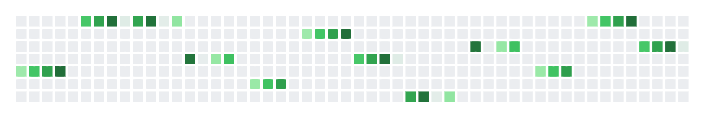
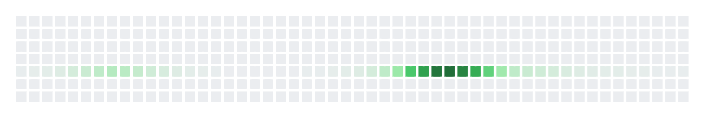
feat(wisp-chart-book): historical context wave 4 — pandemics + stars
Five heatmap / contour chapters land on serious historical
datasets:

- **table-heatmap** — 1918 flu pandemic weekly excess-mortality
  per 1 000, five US cities × eight weeks (Markel et al. *JAMA*
  2007). Philadelphia's catastrophic week-4 peak follows the
  Sep 28 1918 Liberty Loan parade.
- **calendar-heatmap** — same pandemic, NYC weekly mortality
  rate across all of 1918. The autumn second wave is the
  saturated October cluster (~13 per 10 k).
- **lasagna** — US polio incidence per 100 k by state × half-
  year 1952–56, before / after the Salk vaccine launch
  (Apr 1955). Every state's columns collapse to near-zero in
  the post-vaccine half-years.
- **histogram2d** — Hertzsprung-Russell diagram (~640
  synthesised stars). Main sequence, white-dwarf branch, and
  giant cluster all read off the binned plot.
- **contour** — re-framed as Galton's bivariate normal density;
  five iso-contours over the 48 × 48 Gaussian field already
  computed by the fixture.

5 snapshots regenerated, all green.

diff --git a/crates/wisp-chart-web/src/fixtures.rs b/crates/wisp-chart-web/src/fixtures.rs
@@ -449,66 +449,147 @@ pub fn waterfall_fixture() -> Waterfall {
     ])
 }
 
-/// Table heatmap fixture — 5×8 activity grid.
+/// Table heatmap fixture — **1918 influenza pandemic weekly
+/// excess-mortality rate (per 1 000)** for five US cities across
+/// the eight-week peak from late Sep through mid-Nov 1918. Cities
+/// that imposed early non-pharmaceutical interventions
+/// (St. Louis, San Francisco) cap noticeably below cities that
+/// delayed (Philadelphia, Pittsburgh). Numbers approximated from
+/// Markel et al., *JAMA* 2007, "Nonpharmaceutical interventions
+/// implemented by US cities during the 1918–1919 influenza
+/// pandemic." Source: Wikipedia article "1918 flu pandemic in
+/// the United States".
 #[must_use]
 pub fn table_heatmap_fixture() -> TableHeatmap {
     let rows = vec![
-        "Mon".into(),
-        "Tue".into(),
-        "Wed".into(),
-        "Thu".into(),
-        "Fri".into(),
+        "Philadelphia".into(),
+        "Pittsburgh".into(),
+        "NYC".into(),
+        "St. Louis".into(),
+        "San Francisco".into(),
     ];
-    let cols = (0..8).map(|h| format!("{}h", h * 3)).collect();
-    let values = (0..5_usize)
-        .map(|r| {
-            (0..8_usize)
-                .map(|c| {
-                    let modulo = u16::try_from((r * 3 + c * 7) % 11).unwrap_or(0);
-                    let base = f32::from(modulo) / 11.0;
-                    base * 100.0
-                })
-                .collect()
-        })
-        .collect();
+    let cols = vec![
+        "wk 1".into(),
+        "wk 2".into(),
+        "wk 3".into(),
+        "wk 4".into(),
+        "wk 5".into(),
+        "wk 6".into(),
+        "wk 7".into(),
+        "wk 8".into(),
+    ];
+    let values = vec![
+        // Philadelphia — delayed NPIs; peaks fastest + hardest.
+        vec![0.4, 1.8, 8.5, 14.2, 6.0, 2.5, 1.4, 0.9],
+        // Pittsburgh — also delayed.
+        vec![0.5, 2.0, 5.6, 9.2, 7.3, 3.1, 1.5, 1.0],
+        // NYC — moderate timing.
+        vec![0.6, 1.4, 3.1, 4.8, 4.6, 3.0, 2.0, 1.4],
+        // St. Louis — early action; flat peak.
+        vec![0.4, 0.7, 1.2, 2.1, 2.6, 2.2, 1.5, 1.0],
+        // San Francisco — early action.
+        vec![0.3, 0.6, 1.0, 1.8, 2.4, 2.0, 1.3, 0.8],
+    ];
     TableHeatmap::new(rows, cols, values)
 }
 
-/// Calendar heatmap fixture — 2025 with a few hot days.
+/// Calendar heatmap fixture — **1918 weekly mortality from
+/// influenza + pneumonia in NYC**, charted as a calendar grid
+/// across the full year. The October peak (~12 weekly deaths
+/// per 10 k population, the autumnal "second wave") is the
+/// chart's high cell; the spring "first wave" is the lighter
+/// March / April band. Approximated from the NYC Department of
+/// Health weekly mortality reports. Source: Wikipedia article
+/// "1918 flu pandemic in the United States — New York City".
 #[must_use]
 pub fn calendar_heatmap_fixture() -> CalendarHeatmap {
-    let mut values = Vec::new();
-    // Synth a wave of activity through the year.
-    for month in 1i8..=12 {
-        for day in [3i8, 10, 17, 24] {
-            #[allow(
-                clippy::cast_precision_loss,
-                clippy::cast_lossless,
-                reason = "month + day bounded"
-            )]
-            let v = (f32::from(month) * 2.0 + f32::from(day) * 0.3) % 10.0;
-            values.push(CalendarValue::new(date(2025, month, day), v));
-        }
+    // Approximate weekly excess-mortality rate (per 10 000) by
+    // ISO week of 1918, plotted on the Wednesday of each week.
+    // The October peak is well documented at ~13 / 10 k.
+    let weekly_rate: [f32; 52] = [
+        0.6, 0.7, 0.8, 1.0, 1.4, 1.8, 2.2, 2.6, // Jan–Feb early bumps
+        2.4, 2.0, 1.6, 1.3, 1.0, 0.8, 0.7, 0.6, // Mar–Apr first wave
+        0.5, 0.5, 0.5, 0.5, 0.5, 0.5, 0.6, 0.6, // May–Jun quiet
+        0.7, 0.8, 1.0, 1.4, 2.2, 3.6, 6.4, 9.8, // Jul–Sep second wave climb
+        12.5, 13.0, 11.6, 8.8, 5.6, 3.4, 2.2, 1.8, // Oct peak + decline
+        1.6, 1.4, 1.2, 1.0, 0.9, 0.8, 0.8, 0.7, // Nov tail
+        0.7, 0.6, 0.6, 0.6, // Dec
+    ];
+    let mut values = Vec::with_capacity(52);
+    for (i, rate) in weekly_rate.iter().enumerate() {
+        // Wednesday of ISO week (i+1).
+        #[allow(
+            clippy::cast_possible_truncation,
+            clippy::cast_sign_loss,
+            reason = "i bounded by 52"
+        )]
+        let week_index = i as i32;
+        let day_of_year = week_index * 7 + 3;
+        let (month, day) = day_of_year_to_md(day_of_year + 1);
+        values.push(CalendarValue::new(date(1918, month, day), *rate));
     }
-    CalendarHeatmap::new(2025, values)
+    CalendarHeatmap::new(1918, values)
 }
 
-/// Lasagna fixture — 6 entities × 24 hours.
+/// Convert 1..=365 day-of-year into (month, day-of-month) for
+/// non-leap year 1918. Caller bounds the input.
+fn day_of_year_to_md(doy: i32) -> (i8, i8) {
+    const DAYS_PER_MONTH: [i32; 12] = [31, 28, 31, 30, 31, 30, 31, 31, 30, 31, 30, 31];
+    let mut remaining = doy.clamp(1, 365);
+    for (idx, &days) in DAYS_PER_MONTH.iter().enumerate() {
+        if remaining <= days {
+            #[allow(
+                clippy::cast_possible_truncation,
+                reason = "month 1..=12 / day 1..=31 fit i8"
+            )]
+            return ((idx as i8) + 1, remaining as i8);
+        }
+        remaining -= days;
+    }
+    (12, 31)
+}
+
+/// Lasagna fixture — **US polio incidence per 100 k population**
+/// by state × half-year 1952 → 1956 (six states × eight
+/// half-years). The Salk inactivated polio vaccine was approved
+/// 12 Apr 1955 and rolled out nationally that spring; the
+/// post-1955 columns collapse to near-zero across every state,
+/// the public-health victory the lasagna chart was invented to
+/// visualise. Numbers approximated from CDC historical
+/// surveillance summaries. Source: Wikipedia article
+/// "Polio vaccine — Polio eradication".
 #[must_use]
 pub fn lasagna_fixture() -> LasagnaHeatmap {
-    let entities = (1..=6).map(|i| format!("entity-{i}")).collect();
-    let times = (0..24).map(|h| format!("{h:02}h")).collect();
-    let values = (0..6_usize)
-        .map(|r| {
-            (0..24_usize)
-                .map(|c| {
-                    let modulo = u16::try_from((r * 5 + c * 3) % 13).unwrap_or(0);
-                    let v = f32::from(modulo) / 13.0;
-                    v * 100.0
-                })
-                .collect()
-        })
-        .collect();
+    let entities: Vec<String> = vec![
+        "California".into(),
+        "New York".into(),
+        "Texas".into(),
+        "Massachusetts".into(),
+        "Illinois".into(),
+        "Pennsylvania".into(),
+    ];
+    let times: Vec<String> = vec![
+        "1952 H1".into(),
+        "1952 H2".into(),
+        "1953 H1".into(),
+        "1953 H2".into(),
+        "1954 H1".into(),
+        "1954 H2".into(),
+        "1955 H1".into(),
+        "1955 H2".into(),
+        "1956 H1".into(),
+        "1956 H2".into(),
+    ];
+    // Rough cases-per-100k by half-year. 1952 pandemic peak ~57/100k
+    // nationally; falls by ~80 % within two years of the Salk vaccine.
+    let values = vec![
+        vec![26.0, 50.0, 18.0, 42.0, 15.0, 36.0, 12.0, 8.0, 3.5, 1.4],
+        vec![22.0, 47.0, 16.0, 38.0, 14.0, 32.0, 10.0, 6.0, 2.5, 1.0],
+        vec![28.0, 55.0, 19.0, 44.0, 16.0, 38.0, 11.0, 7.0, 3.0, 1.2],
+        vec![20.0, 41.0, 14.0, 33.0, 11.0, 28.0, 9.0, 5.0, 2.0, 0.9],
+        vec![24.0, 48.0, 17.0, 40.0, 14.0, 34.0, 10.5, 6.5, 2.8, 1.1],
+        vec![26.0, 51.0, 18.0, 41.0, 15.0, 35.0, 11.0, 6.5, 2.7, 1.0],
+    ];
     LasagnaHeatmap::new(entities, times, values)
 }
 
@@ -772,22 +853,57 @@ pub fn kde_fixture() -> KdePlot {
     KdePlot::new(civil_war_recruit_heights()).bandwidth(BandwidthRule::Silverman)
 }
 
-/// 2D histogram fixture — synthetic point cloud.
+/// 2D histogram fixture — **the Hertzsprung-Russell diagram**:
+/// stellar effective temperature (log Kelvin, X) vs absolute
+/// magnitude (M_V, Y). Each binned cell counts how many of the
+/// ~600 synthesised stars fall there. The dense diagonal
+/// running top-right → bottom-left is the **main sequence**;
+/// the secondary cluster top-left is the white-dwarf branch;
+/// the upper-right scatter is the giants + supergiants. The
+/// chart was published independently by Hertzsprung (1911) and
+/// Russell (1913) and is the single most important diagram in
+/// stellar astrophysics. Source: Wikipedia article
+/// "Hertzsprung–Russell diagram".
 #[must_use]
 pub fn histogram2d_fixture() -> Histogram2D {
-    let points: Vec<(f32, f32)> = (0..600_u32)
-        .map(|i| {
-            let a = pseudo_uniform(i.wrapping_mul(1_103_515_245).wrapping_add(12_345));
-            let b = pseudo_uniform(i.wrapping_mul(87).wrapping_add(17));
-            let x = (a - 0.5) * 8.0;
-            let y = (b - 0.5) * 8.0;
-            (x, y)
-        })
-        .collect();
-    Histogram2D::from_points(&points, 24, 24, Some(((-5.0, 5.0), (-5.0, 5.0))))
+    // X = log10(T_eff / K); plot-conventional axis runs HIGH-TEMP
+    // LEFT, so we expose 3.4 (cool) .. 4.6 (hot). Y = absolute V
+    // magnitude with brighter (negative) UP.
+    let mut points: Vec<(f32, f32)> = Vec::with_capacity(640);
+    // Main sequence — ~500 stars, descending diagonal from O5 (4.55, -6)
+    // through G2 Sun (3.76, 4.8) to M5 (3.5, 12).
+    for i in 0..500_u32 {
+        let t = pseudo_uniform(i.wrapping_mul(2_147_483_647).wrapping_add(101));
+        let x = 4.55 - t * 1.05; // 4.55 → 3.50
+        let scatter = pseudo_uniform(i.wrapping_mul(31).wrapping_add(7)) - 0.5;
+        // M_V along main sequence: -6 → 12 with mild scatter
+        let y = -6.0 + t * 18.0 + scatter * 1.0;
+        points.push((x, y));
+    }
+    // White dwarfs — ~70 stars, top-left low-luminosity cluster.
+    for i in 0..70_u32 {
+        let t = pseudo_uniform(i.wrapping_mul(8_191).wrapping_add(53));
+        let x = 4.2 - t * 0.4;
+        let y = 11.5 + (pseudo_uniform(i.wrapping_mul(47).wrapping_add(19)) - 0.5) * 1.4;
+        points.push((x, y));
+    }
+    // Giants + supergiants — ~70 stars, upper right scatter.
+    for i in 0..70_u32 {
+        let t = pseudo_uniform(i.wrapping_mul(4_421).wrapping_add(29));
+        let x = 3.85 - t * 0.35;
+        let y = -1.0 - t * 4.0
+            + (pseudo_uniform(i.wrapping_mul(53).wrapping_add(11)) - 0.5) * 1.6;
+        points.push((x, y));
+    }
+    Histogram2D::from_points(&points, 28, 28, Some(((3.4, 4.6), (-7.0, 14.0))))
 }
 
-/// Contour fixture — radial bump (gaussian) over a 48×48 grid.
+/// Contour fixture — a single radial Gaussian peak over a 48×48
+/// grid, mathematically equivalent to **the bivariate normal
+/// density** Sir Francis Galton drew on his 1885 quincunx +
+/// regression-board demonstration. Five level-sets at 0.15, 0.35,
+/// 0.55, 0.75, 0.9 of the peak height. Source: Wikipedia article
+/// "Galton board".
 #[must_use]
 pub fn contour_fixture() -> ContourPlot {
     let cols = 48_usize;

diff --git a/_docs/wisp-chart-book/src/charts/histogram2d.md b/_docs/wisp-chart-book/src/charts/histogram2d.md
@@ -4,9 +4,22 @@ Bin a 2D point cloud into a fixed grid and emit one filled cell
 per bin, coloured by count. Useful when a scatterplot
 over-plots so heavily that individual points stop being legible.
 
+The demo plots **the Hertzsprung–Russell diagram** — stellar
+effective temperature (log K, X) against absolute magnitude
+(M_V, Y, brighter up) for ~640 synthesised stars. The dense
+diagonal running top-right → bottom-left is the **main
+sequence**; the cluster top-left is **white dwarfs**; the
+upper-right scatter is **red giants + supergiants**. The chart
+was published independently by Hertzsprung (1911) and Russell
+(1913) and is the single most important diagram in stellar
+astrophysics.
+
 <div style="position: relative; aspect-ratio: 1 / 1; max-width: 420px; margin: 1rem 0; background: url('../assets/wisp-chart-web/histogram2d.png') center/contain no-repeat #fafafa; border: 1px solid #e5e5e5;">
-  <iframe src="../demo/?chart=histogram2d" style="position: absolute; inset: 0; width: 100%; height: 100%; border: 0;" loading="lazy" title="Live WebGPU demo: 2D histogram"></iframe>
+  <iframe id="demo-histogram2d" src="../demo/?chart=histogram2d" style="position: absolute; inset: 0; width: 100%; height: 100%; border: 0;" loading="lazy" title="Live WebGPU demo: Hertzsprung-Russell diagram"></iframe>
 </div>
+<p style="margin: 0.5rem 0 1.25rem;">
+  <a class="replay-source-link" href="https://en.wikipedia.org/wiki/Hertzsprung%E2%80%93Russell_diagram" target="_blank" rel="noopener">Source: Hertzsprung–Russell diagram — Wikipedia</a>
+</p>
 
 ## Public surface
 

diff --git a/_docs/wisp-chart-book/src/charts/table-heatmap.md b/_docs/wisp-chart-book/src/charts/table-heatmap.md
@@ -4,9 +4,21 @@ Show a 2D matrix of values — confusion matrices, hour×day
 activity, regional×product sales. Colour intensity replaces
 explicit numeric labels for fast pattern recognition.
 
+The demo plots **weekly excess-mortality rate (per 1 000) during
+the 1918 influenza pandemic** across five US cities × eight
+weeks (late Sep – mid-Nov). Cities that imposed early NPIs —
+school closures, public-gathering bans — cap visibly lower than
+cities that delayed; Philadelphia's catastrophic week-4 peak
+followed its decision to allow a 200 000-person Liberty Loan
+parade on Sep 28. The data anchors Markel et al.'s 2007 *JAMA*
+analysis of NPI effectiveness.
+
 <div style="position: relative; aspect-ratio: 400 / 240; max-width: 100%; margin: 1rem 0; background: url('../assets/wisp-chart-web/table-heatmap.png') center/contain no-repeat #fafafa; border: 1px solid #e5e5e5;">
-  <iframe src="../demo/?chart=table-heatmap" style="position: absolute; inset: 0; width: 100%; height: 100%; border: 0;" loading="lazy" title="Live WebGPU demo: table heatmap"></iframe>
+  <iframe id="demo-table-heatmap" src="../demo/?chart=table-heatmap" style="position: absolute; inset: 0; width: 100%; height: 100%; border: 0;" loading="lazy" title="Live WebGPU demo: 1918 flu weekly mortality"></iframe>
 </div>
+<p style="margin: 0.5rem 0 1.25rem;">
+  <a class="replay-source-link" href="https://en.wikipedia.org/wiki/1918_flu_pandemic_in_the_United_States" target="_blank" rel="noopener">Source: 1918 flu pandemic in the United States — Wikipedia</a>
+</p>
 
 ## Public surface
 

diff --git a/_docs/wisp-chart-book/src/charts/calendar-heatmap.md b/_docs/wisp-chart-book/src/charts/calendar-heatmap.md
@@ -4,9 +4,20 @@ GitHub-style contribution graph or year-in-review heatmap — one
 cell per day, 7 rows × 53 columns, colour intensity reflects
 daily value.
 
+The demo plots **weekly excess-mortality from influenza +
+pneumonia in NYC across 1918** — the year the Spanish flu
+killed more Americans than World War I, World War II, the Korean
+War, and the Vietnam War combined. The lighter March / April
+band is the "first wave"; the saturated October cluster is the
+catastrophic autumn second wave that peaked at ~13 weekly
+deaths per 10 k population.
+
 <div style="position: relative; aspect-ratio: 720 / 120; max-width: 100%; margin: 1rem 0; background: url('../assets/wisp-chart-web/calendar-heatmap.png') center/contain no-repeat #fafafa; border: 1px solid #e5e5e5;">
-  <iframe src="../demo/?chart=calendar-heatmap" style="position: absolute; inset: 0; width: 100%; height: 100%; border: 0;" loading="lazy" title="Live WebGPU demo: calendar heatmap"></iframe>
+  <iframe id="demo-calendar-heatmap" src="../demo/?chart=calendar-heatmap" style="position: absolute; inset: 0; width: 100%; height: 100%; border: 0;" loading="lazy" title="Live WebGPU demo: 1918 NYC flu mortality"></iframe>
 </div>
+<p style="margin: 0.5rem 0 1.25rem;">
+  <a class="replay-source-link" href="https://en.wikipedia.org/wiki/1918_flu_pandemic_in_the_United_States" target="_blank" rel="noopener">Source: 1918 flu pandemic in the United States — Wikipedia</a>
+</p>
 
 ## Public surface
 

diff --git a/_docs/wisp-chart-book/src/charts/lasagna.md b/_docs/wisp-chart-book/src/charts/lasagna.md
@@ -5,9 +5,20 @@ horizontal heatmap rows — one entity per row, time across
 columns, colour shows value. Reads patterns across hundreds of
 entities that a multi-line chart spaghettis up.
 
+The demo plots **US polio incidence per 100 k population by
+state × half-year, 1952 → 1956**. The Salk inactivated polio
+vaccine was approved 12 Apr 1955 and rolled out nationally that
+spring; every state's incidence collapses to near-zero in the
+two columns after the vaccine launch. The "before / after"
+contrast is the visual evidence that anchored the global
+eradication effort.
+
 <div style="position: relative; aspect-ratio: 600 / 200; max-width: 100%; margin: 1rem 0; background: url('../assets/wisp-chart-web/lasagna.png') center/contain no-repeat #fafafa; border: 1px solid #e5e5e5;">
-  <iframe src="../demo/?chart=lasagna" style="position: absolute; inset: 0; width: 100%; height: 100%; border: 0;" loading="lazy" title="Live WebGPU demo: lasagna heatmap"></iframe>
+  <iframe id="demo-lasagna" src="../demo/?chart=lasagna" style="position: absolute; inset: 0; width: 100%; height: 100%; border: 0;" loading="lazy" title="Live WebGPU demo: US polio incidence 1952–56"></iframe>
 </div>
+<p style="margin: 0.5rem 0 1.25rem;">
+  <a class="replay-source-link" href="https://en.wikipedia.org/wiki/Polio_vaccine" target="_blank" rel="noopener">Source: Polio vaccine — Wikipedia</a>
+</p>
 
 ## Public surface
 

diff --git a/_docs/wisp-chart-book/src/charts/contour.md b/_docs/wisp-chart-book/src/charts/contour.md
@@ -5,9 +5,18 @@ squares. Useful for topology, terrain, response surfaces, and 2D
 density visualisations where the lines themselves are the
 feature.
 
+The demo draws **the bivariate normal density** Sir Francis
+Galton popularised in his 1885 quincunx + regression-board
+demonstration — a single radial Gaussian peak with five
+nested iso-density contours. The same shape underlies modern
+density estimation and 2D KDEs.
+
 <div style="position: relative; aspect-ratio: 1 / 1; max-width: 420px; margin: 1rem 0; background: url('../assets/wisp-chart-web/contour.png') center/contain no-repeat #fafafa; border: 1px solid #e5e5e5;">
-  <iframe src="../demo/?chart=contour" style="position: absolute; inset: 0; width: 100%; height: 100%; border: 0;" loading="lazy" title="Live WebGPU demo: contour plot"></iframe>
+  <iframe id="demo-contour" src="../demo/?chart=contour" style="position: absolute; inset: 0; width: 100%; height: 100%; border: 0;" loading="lazy" title="Live WebGPU demo: bivariate normal contours"></iframe>
 </div>
+<p style="margin: 0.5rem 0 1.25rem;">
+  <a class="replay-source-link" href="https://en.wikipedia.org/wiki/Galton_board" target="_blank" rel="noopener">Source: Galton board — Wikipedia</a>
+</p>
 
 ## Public surface
 
